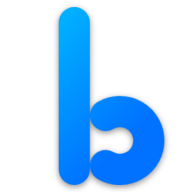
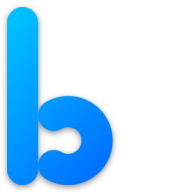
some todos resolved

diff --git a/scripts/src/entry/logo-favicon-injector/main.ts b/scripts/src/entry/logo-favicon-injector/main.ts
@@ -5,14 +5,12 @@ import glob from 'glob';
 import { spawn } from 'child_process';
 
 async function main(args: Args) {
-  const project = path.join(
-    process.cwd(),
-    '..',
-    'frontend',
-    'web',
-    args.project,
-    'public'
-  );
+  const frontend = path.join(process.cwd(), '..', 'frontend');
+  const root = path.join(frontend, 'web', args.project);
+  const common = path.join(frontend, 'common');
+  const metaPath = path.join(common, 'src', 'static', 'meta');
+  const project = path.join(root, 'public');
+  const meta = path.join(args.workingDirectory, 'raw', 'metadata');
   const faviconDir = path.join(args.workingDirectory, 'favicon');
   const bin = path.join(process.cwd(), 'node_modules', '.bin');
   const files = await new Promise<string[]>((resolve, reject) => {
@@ -43,6 +41,16 @@ async function main(args: Args) {
         reject(code);
       }
     });
+  });
+  await new Promise((resolve) => {
+    if (!fs.existsSync(metaPath)) {
+      fs.mkdirSync(metaPath, { recursive: true });
+    }
+    fs.copyFileSync(
+      path.join(meta, 'full-svg.json'),
+      path.join(metaPath, 'full-svg.json')
+    );
+    resolve();
   });
 }
 

diff --git a/frontend/web/admin/src/setup.ts b/frontend/web/admin/src/setup.ts
@@ -3,7 +3,6 @@ import {storeFactory} from '@byot-frontend/common/src/redux-system/store/Store';
 import {WebAdminState} from './redux/WebAdminState';
 import {UrlLanguageProvider} from '@byot-frontend/web-common/src/i18n/providers/UrlLanguageProvider';
 import {createI18n} from '@byot-frontend/common/src/i18n/CreateI18n';
-import {useTranslationFactory} from '@byot-frontend/common/src/i18n/UseTranslation';
 
 export const languageProvider = new UrlLanguageProvider();
 export const [i18n] = createI18n(
@@ -12,7 +11,10 @@ export const [i18n] = createI18n(
     sk: {},
     cs: {},
   },
-  languageProvider
+  languageProvider,
+  {
+    debug: process.env.NODE_ENV === 'development',
+  }
 );
 export const theme = (dark?: boolean) =>
   createTheme({
@@ -20,5 +22,6 @@ export const theme = (dark?: boolean) =>
       type: dark ? 'dark' : 'light',
     },
   });
-export const useTranslation = useTranslationFactory(i18n);
-export const reduxStore = storeFactory(() => new WebAdminState());
+export const reduxStore = storeFactory(() => new WebAdminState(), 'default', {
+  useLogger: process.env.NODE_ENV === 'development',
+});

diff --git a/frontend/web/landing/src/setup.ts b/frontend/web/landing/src/setup.ts
@@ -4,7 +4,6 @@ import {LandingPageState} from './redux/LandingPageState';
 import {UrlLanguageProvider} from '@byot-frontend/web-common/src/i18n/providers/UrlLanguageProvider';
 import {createI18n} from '@byot-frontend/common/src/i18n/CreateI18n';
 import {WebAuth} from '@byot-frontend/web-common/src/redux/process/auth/WebAuth';
-import {useTranslationFactory} from '@byot-frontend/common/src/i18n/UseTranslation';
 
 // todo remove when some actions are in project or resolve
 new WebAuth();
@@ -15,7 +14,10 @@ export const [i18n] = createI18n(
     sk: {},
     cs: {},
   },
-  languageProvider
+  languageProvider,
+  {
+    debug: process.env.NODE_ENV === 'development',
+  }
 );
 export const theme = (dark?: boolean) =>
   createTheme({
@@ -23,5 +25,7 @@ export const theme = (dark?: boolean) =>
       type: dark ? 'dark' : 'light',
     },
   });
-export const useTranslation = useTranslationFactory(i18n);
-export const reduxStore = storeFactory(() => new LandingPageState());
+
+export const reduxStore = storeFactory(() => new LandingPageState(), 'default', {
+  useLogger: process.env.NODE_ENV === 'development',
+});

diff --git a/frontend/common/src/i18n/CreateI18n.ts b/frontend/common/src/i18n/CreateI18n.ts
@@ -1,5 +1,5 @@
 import {Languages} from './Possibilities';
-import {default as i18n, i18n as i18next} from 'i18next';
+import {default as i18n, i18n as i18next, InitOptions} from 'i18next';
 import {initReactI18next} from 'react-i18next';
 import en from './resources/en';
 import sk from './resources/sk';
@@ -17,7 +17,8 @@ type Resources<T> = {[K in Languages]: DeepSameObject<T>};
 
 export const createI18n = <T>(
   data?: DeepSameObject<Resources<T>>,
-  provider: CurrentLanguageProvider = new FixedLanguageProvider(defaultLanguage)
+  provider: CurrentLanguageProvider = new FixedLanguageProvider(defaultLanguage),
+  options?: Partial<InitOptions>
 ): [i18next, Promise<any>] => {
   const resources: Resources<typeof en | T> = {
     en: {...en, ...(data?.en as object)},
@@ -32,8 +33,7 @@ export const createI18n = <T>(
       escapeValue: false,
     },
     fallbackLng: 'en',
-    // todo another way
-    debug: process.env.NODE_ENV === 'development',
+    ...options,
   });
 
   return [i18n, loader];

diff --git a/frontend/native/app/src/setup.ts b/frontend/native/app/src/setup.ts
@@ -5,6 +5,7 @@ import {NativeAppLanguageProvider} from './i18n/providers/NativeAppLanguageProvi
 import {dark, light} from '@eva-design/material';
 import {kittenTheme} from './theme/Custom';
 import {NativeAuth} from './redux/process/NativeAuth';
+
 export {default as baseTheme} from '@byot/common/theme/theme';
 new NativeAuth();
 export const languageProvider = new NativeAppLanguageProvider();
@@ -14,9 +15,14 @@ export const [i18n, loader] = createI18n(
     sk: {},
     cs: {},
   },
-  languageProvider
+  languageProvider,
+  {
+    debug: process.env.NODE_ENV === 'development',
+  }
 );
-export const reduxStore = storeFactory(() => new NativeAppState());
+export const reduxStore = storeFactory(() => new NativeAppState(), 'default', {
+  useLogger: process.env.NODE_ENV === 'development',
+});
 export const theme = (isDark: boolean) => ({
   ...(isDark ? dark : light),
   ...kittenTheme,

diff --git a/frontend/common/src/redux-system/store/Store.ts b/frontend/common/src/redux-system/store/Store.ts
@@ -5,7 +5,15 @@ import {createLogger} from 'redux-logger';
 import createSagaMiddleware from 'redux-saga';
 import {rootSaga} from '../saga/AsyncSaga';
 
-export const storeFactory = <S>(createState: () => S, group: string = 'default'): Store<S, AnyAction> => {
+export const storeFactory = <S>(
+  createState: () => S,
+  group: string = 'default',
+  {
+    useLogger = false,
+  }: {
+    useLogger?: boolean;
+  } = {}
+): Store<S, AnyAction> => {
   const reducer = new Reducer<S>(group);
   const sagaMiddleware = createSagaMiddleware();
 
@@ -15,8 +23,7 @@ export const storeFactory = <S>(createState: () => S, group: string = 'default')
     collapsed: (getState, action, logEntry) => !logEntry!.error,
   });
 
-  // todo make up another way
-  if (process.env.NODE_ENV === 'development') {
+  if (useLogger) {
     middlewares.push(logger);
   }
 

diff --git a/frontend/web/app/src/setup.ts b/frontend/web/app/src/setup.ts
@@ -11,7 +11,10 @@ export const [i18n] = createI18n(
     sk: {},
     cs: {},
   },
-  languageProvider
+  languageProvider,
+  {
+    debug: process.env.NODE_ENV === 'development',
+  }
 );
 export const theme = (dark?: boolean) =>
   createTheme({
@@ -19,4 +22,6 @@ export const theme = (dark?: boolean) =>
       type: dark ? 'dark' : 'light',
     },
   });
-export const reduxStore = storeFactory(() => new WebAppState());
+export const reduxStore = storeFactory(() => new WebAppState(), 'default', {
+  useLogger: process.env.NODE_ENV === 'development',
+});

diff --git a/frontend/common/src/types/Constants.ts b/frontend/common/src/types/Constants.ts
@@ -1,4 +1,9 @@
+import logoMetadata from '../static/meta/full-svg.json';
+
 export class Constants {
-  // todo make probably as json? and generate during logo generation
-  public static readonly LOGO_SIZE = {width: 675, height: 480};
+  public static readonly LOGO_SIZE: {
+    height: number;
+    width: number;
+    type: string;
+  } = logoMetadata;
 }

diff --git a/frontend/native/app/src/components/elements/logo/Logo.tsx b/frontend/native/app/src/components/elements/logo/Logo.tsx
@@ -1,6 +1,6 @@
 import * as React from 'react';
 import {Image, ImageProps, LayoutRectangle, StyleSheet} from 'react-native';
-import {Constants} from '../../../types/Constants';
+import {Constants} from '@byot-frontend/common/src/types/Constants';
 
 interface Props extends Omit<ImageProps, 'source'> {
   size?: number;

diff --git a/frontend/common/jest.config.js b/frontend/common/jest.config.js
@@ -1,7 +1,7 @@
 module.exports = {
   roots: [
     '<rootDir>/src',
-    // todo when created add '<rootDir>/test'
+    '<rootDir>/test'
   ],
   transform: {
     '^.+\\.tsx?$': 'ts-jest'
